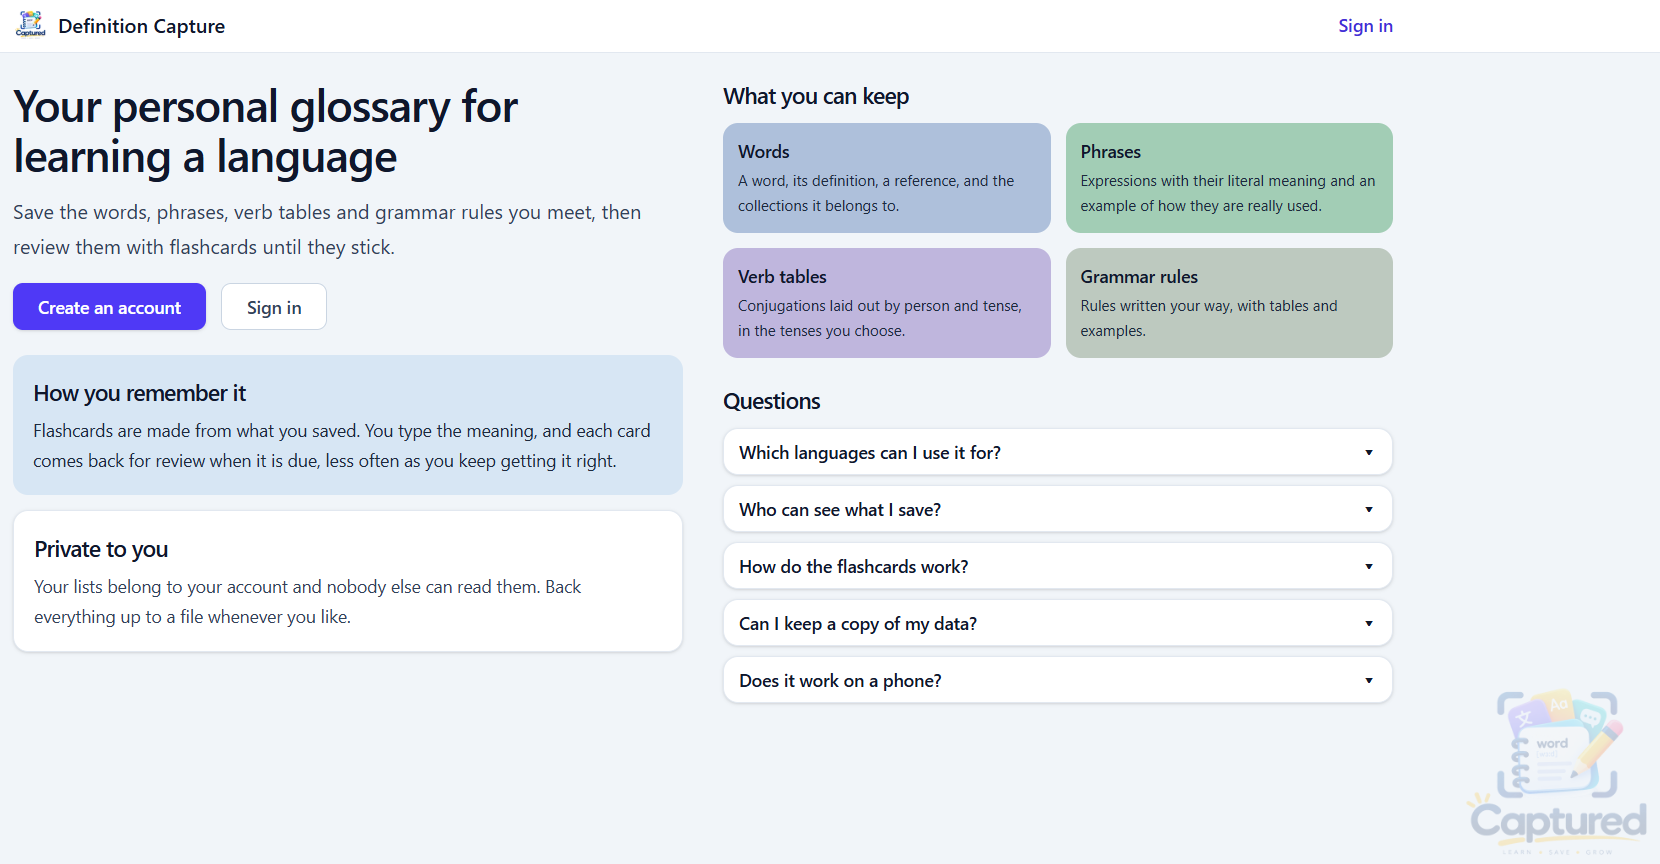
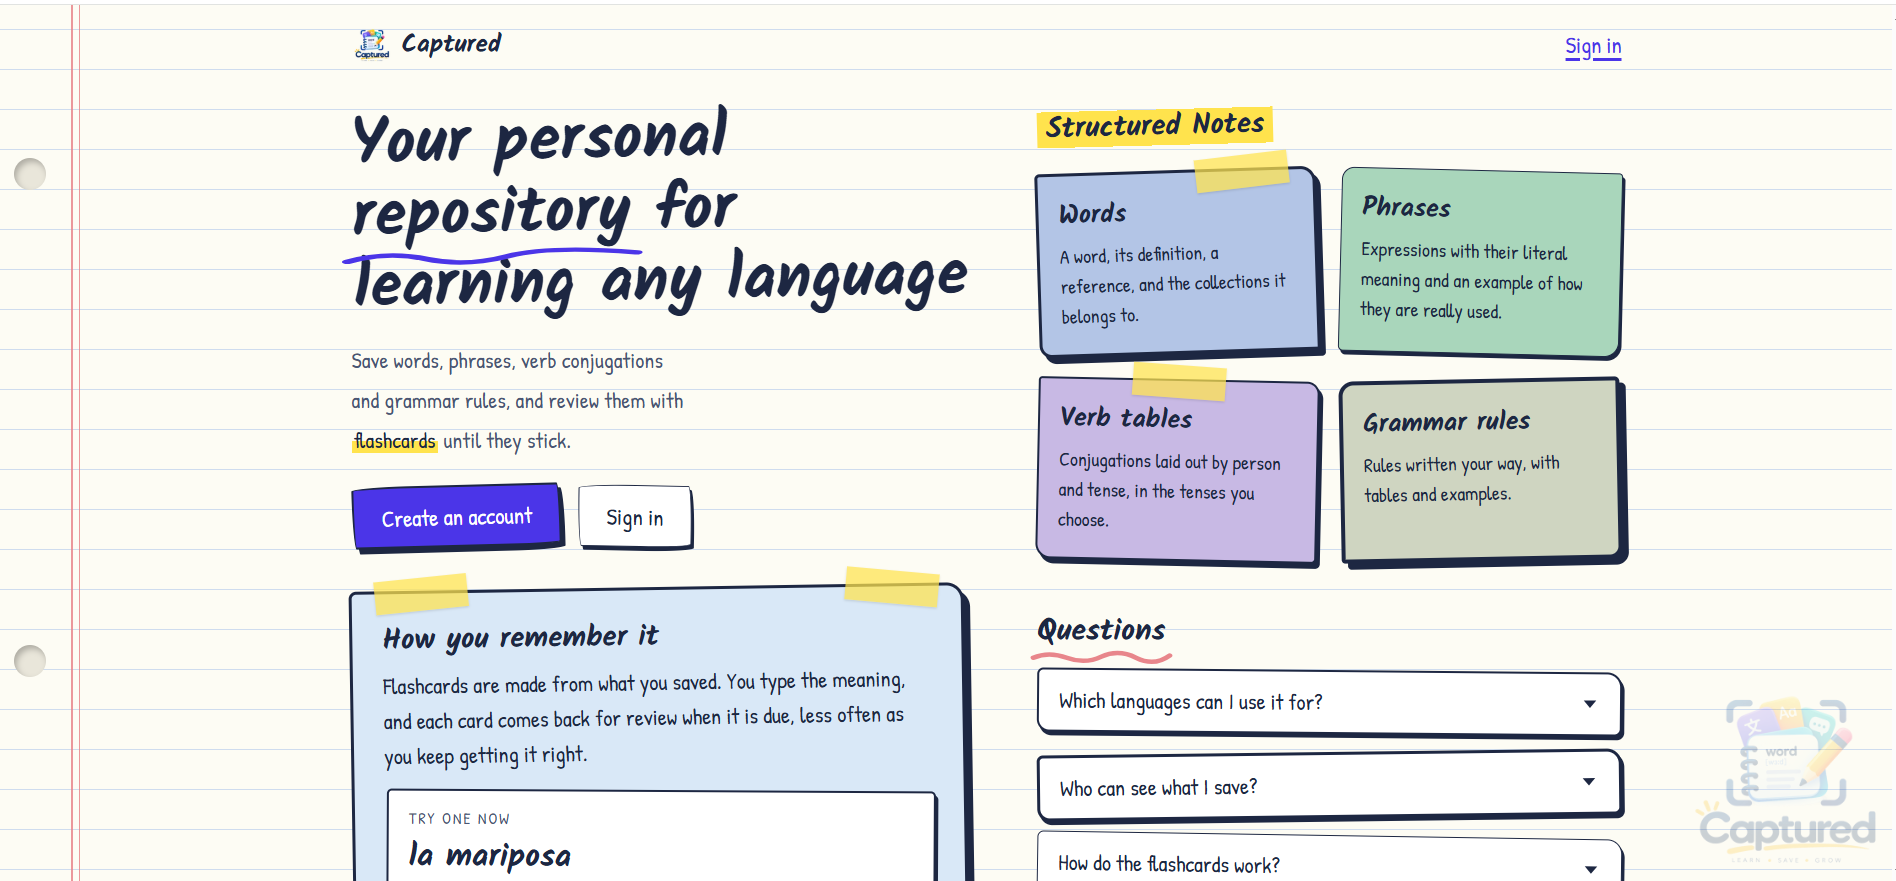
Show the notebook landing page in the README

diff --git a/README.md b/README.md
@@ -6,7 +6,7 @@ from them come back when they are due. Every list is stored in Supabase and
 belongs to the account that saved it, so the same lists are there on any browser
 or device. It is live at <https://definition-capture.vercel.app>.
 
-![The public landing page: the heading "Your personal glossary for learning a language", Create an account and Sign in buttons, cards for words, phrases, verb tables and grammar rules, and the questions as dropdowns](assets/landing-page.png)
+![The public landing page drawn as lined notebook paper: the heading "Your personal repository for learning any language", Create an account and Sign in buttons, a "How you remember it" card with a Try one now flashcard, pasted-on cards for words, phrases, verb tables and grammar rules under Structured Notes, and the questions as dropdowns](assets/landing-page.png)
 
 ## Features
 
